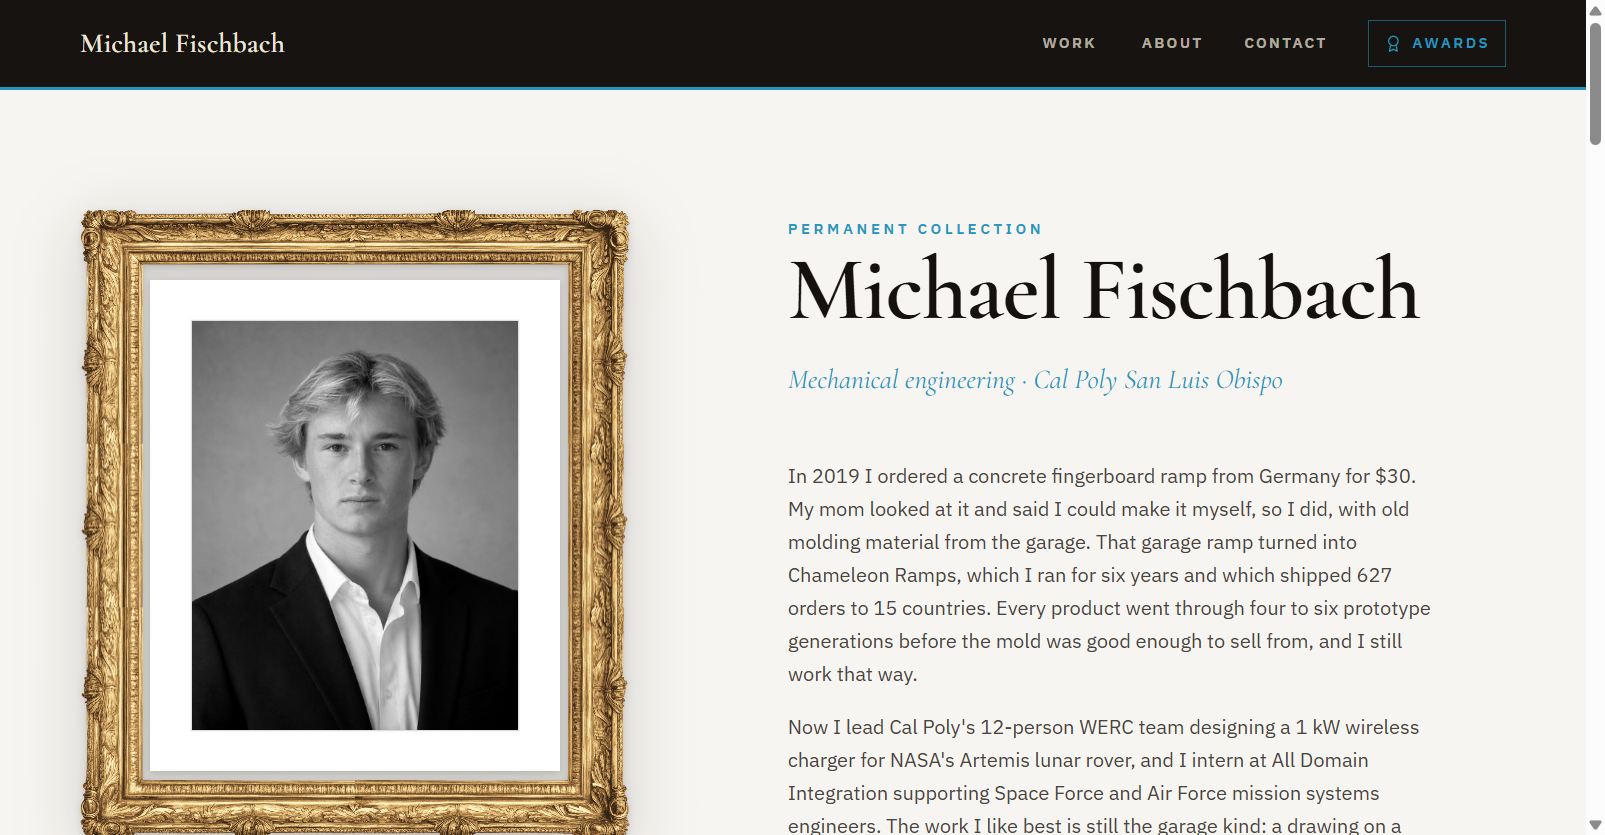
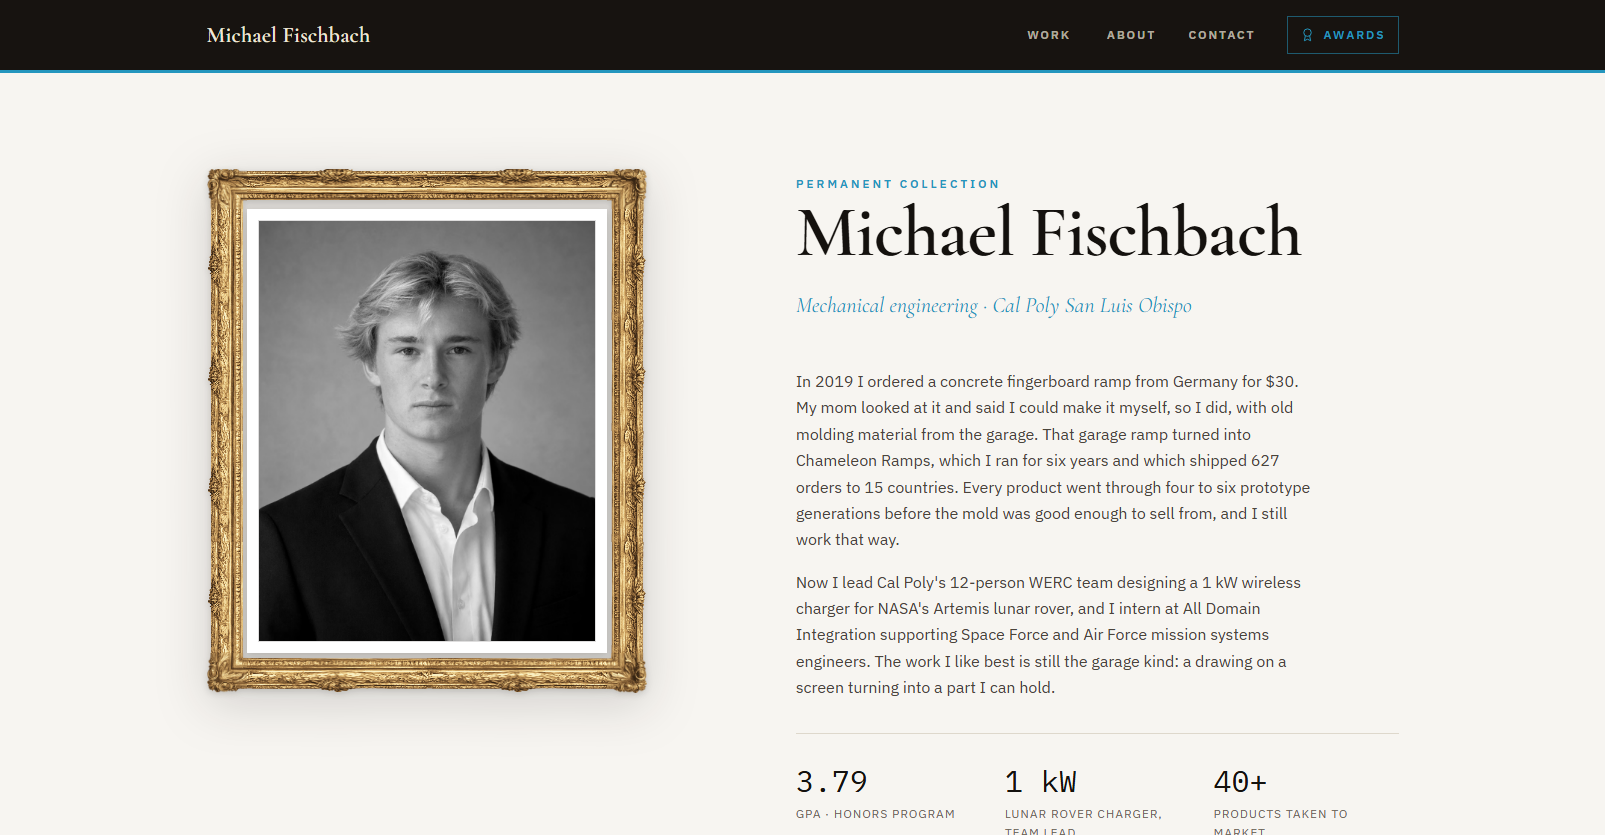
Bring the README and its screenshots up to date
Pocket Gallery in place of the two toys, Resume and LinkedIn in the hero, six
works, and fresh home and wall captures.

diff --git a/README.md b/README.md
@@ -18,7 +18,7 @@
   &nbsp;·&nbsp; <a href="#-project-layout">Layout</a>
 </p>
 
-The personal site of Michael Fischbach, a mechanical engineering student at Cal Poly San Luis Obispo. It is one page with hash-routed rooms: a landing wall, the eight works, an About room, an Awards room and Contact. Each work hangs in a photographed carved gilt frame with a serif caption, and a few of them run live scenes drawn right in the browser.
+The personal site of Michael Fischbach, a mechanical engineering student at Cal Poly San Luis Obispo. It is one page with hash-routed rooms: a landing wall, the six works, an About room, an Awards room and Contact. Each work hangs in a photographed carved gilt frame with a serif caption, and a few of them run live scenes drawn right in the browser.
 
 <p align="center"><img src=".github/media/home.png" alt="The landing room: a framed portrait beside the introduction" width="100%"></p>
 
@@ -29,9 +29,9 @@ The personal site of Michael Fischbach, a mechanical engineering student at Cal 
 | 🖼 **A gallery, not a template** | Works hang in a photographed carved frame (a CSS `border-image`) with cast shadows and serif captions on a warm off-white wall. |
 | 🌙 **Live scenes** | The lunar-rover charging sequence and the CNC putter run as small canvas scenes on the wall and larger inside their rooms. |
 | 🔩 **A real part, rendered live** | The putter's STL is a quantised mesh drawn by a z-buffered software rasteriser on a plain 2D canvas. Drag or use the arrow keys to turn it. |
-| 🎮 **Two toys** | A ring toss with its own physics, and a tic-tac-toe engine that cannot lose. `npm run verify:ttt` proves it by exhaustive play. |
+| 🎮 **Pocket Gallery** | A DS-style handheld game with original pixel art: walk a gallery, battle a curator for each work by asking about its real figures, earn coins, buy gear. `npm run verify:handheld` checks every quoted figure against the site. |
 | 🧭 **Hash-routed rooms** | `#/work`, `#/about`, `#/awards`, `#/contact` and `#/work/<slug>`. No server rewrites needed, so it hosts anywhere static. |
-| 📄 **Resume and CV buttons** | Download the one-page resume or the two-page CV as PDFs straight from the landing room. |
+| 📄 **Resume and LinkedIn** | The one-page resume downloads from the landing room; the two-page CV is on the contact page. |
 | 🪶 **Small shell** | The HTML shell stays under 100 KB (CI fails the build otherwise). Photographs ship as hashed, lazy-loaded assets, not inlined. |
 | ♿ **Works without JS, respects reduced motion** | The wall carries every title, caption and figure in plain HTML. Scenes paint a full static frame under `prefers-reduced-motion`. |
 
@@ -54,7 +54,7 @@ npm run dev        # Vite dev server with hot reload
 | `npm run build` | Typecheck (`tsc --noEmit`), then build to `dist/` |
 | `npm run preview` | Serve the production build locally |
 | `npm run typecheck` | Typecheck only |
-| `npm run verify:ttt` | Exhaustively prove the tic-tac-toe engine cannot lose |
+| `npm run verify:handheld` | Check Pocket Gallery: figures against the site, sprite grids, map reachability |
 | `npm run shots` | Capture every route with Playwright (needs the dev server running) |
 
 Pushes to `main` run [the deploy workflow](.github/workflows/deploy.yml): install, typecheck, build, size and redirect checks, then publish to GitHub Pages. `public/CNAME` carries the custom domain.
@@ -79,7 +79,8 @@ src/main.ts                boot: awards, resume, projects, router, scenes
 src/router.ts              hash routing, focus management, titles
 src/projects.ts            the eight project rooms, rendered from data
 src/awards.ts              the awards room
-src/scenes/                putter, werc, tictactoe, ringtoss (lazy-mounted)
+src/scenes/                putter, werc (lazy-mounted)
+src/handheld/              Pocket Gallery: engine, copy, pixel art
 src/styles/                tokens, base, layout, frame, chrome, games, case
 src/assets/                photographs, PDFs (hashed by the bundler)
 public/                    CNAME, link-preview card, /general/ redirect
